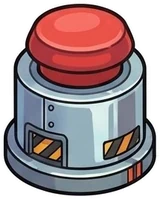
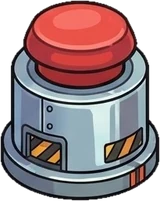
v29: muebles sin borde blanco y con sombra pegada a la base
Claude-Session: https://claude.ai/code/session_015MjFWVPzSuBk34J6ed52Jz

diff --git a/js/nave.js b/js/nave.js
@@ -10,18 +10,46 @@
   var TEX = {};
   function tex(id, src, tileW) {
     var im = new Image(); TEX[id] = { img: im, ok: false, w: tileW };
-    im.onload = function () { TEX[id].ok = true; for (var k in caches) delete caches[k]; };
+    im.onload = function () {
+      if (!tileW) TEX[id].sh = makeShadow(im);   // mueble: preparamos su sombra
+      TEX[id].ok = true; for (var k in caches) delete caches[k];
+    };
     im.src = src;
   }
   tex('cafe', 'img/mapas/nave-comedor-suelo.webp?v=1', 120);   // suelo del Comedor: 4 paneles de 30 de ancho por cada repetición
   // Muebles con imagen: prop(id) carga; drawProp dibuja centrado en x con la base en y y el ancho w
-  function prop(id, file) { tex(id, 'img/mapas/' + file + '?v=1', 0); }
+  // Sombra de un mueble: su misma silueta en negro y difuminada (se tumba en el suelo al dibujarla)
+  function makeShadow(im) {
+    try {
+      var cv = document.createElement('canvas'), pad = 12;
+      cv.width = im.width + pad * 2; cv.height = im.height + pad * 2;
+      var g = cv.getContext('2d');
+      if ('filter' in g) g.filter = 'blur(3px)';
+      g.drawImage(im, pad, pad);
+      g.filter = 'none'; g.globalCompositeOperation = 'source-in'; g.fillStyle = '#000'; g.fillRect(0, 0, cv.width, cv.height);
+      cv.pad = pad;
+      return cv;
+    } catch (e) { return null; }
+  }
+  function prop(id, file) { tex(id, 'img/mapas/' + file + '?v=2', 0); }
   ['mesa', 'maquina', 'boton', 'papelera', 'planta', 'monitor'].forEach(function (n) { prop('cafe-' + n, 'nave-comedor-' + n + '.webp'); });
   function hasProps(list) { for (var i = 0; i < list.length; i++) if (!TEX[list[i]] || !TEX[list[i]].ok) return false; return true; }
   function drawProp(c, id, x, y, w, shadowOn) {
     var T = TEX[id]; if (!T || !T.ok) return false;
     var h = w * T.img.height / T.img.width;
-    if (shadowOn !== false) { c.fillStyle = 'rgba(0,0,0,0.25)'; c.beginPath(); c.ellipse(x, y - 2, w * 0.42, Math.max(4, w * 0.12), 0, 0, Math.PI * 2); c.fill(); }
+    if (shadowOn !== false && T.sh) {
+      // sombra proyectada: pegada a la base y tumbada hacia la derecha y atrás (luz desde la izquierda)
+      var k = w / T.img.width, pad = T.sh.pad * k;
+      c.save(); c.translate(x, y - 1); c.transform(1, 0, -0.75, 0.28, 0, 0); c.globalAlpha = 0.42;
+      c.drawImage(T.sh, -w / 2 - pad, -h - pad, w + pad * 2, h + pad * 2);
+      c.restore();
+      // oscuridad de contacto justo donde el objeto toca el suelo (queda casi toda tapada por el objeto)
+      var cy = y - 3, rx = w * 0.46;
+      var g = c.createRadialGradient(x, cy, 0, x, cy, rx);
+      g.addColorStop(0, 'rgba(0,0,0,0.55)'); g.addColorStop(0.7, 'rgba(0,0,0,0.25)'); g.addColorStop(1, 'rgba(0,0,0,0)');
+      c.save(); c.translate(x, cy); c.scale(1, 0.18); c.translate(-x, -cy);
+      c.fillStyle = g; c.beginPath(); c.arc(x, cy, rx, 0, Math.PI * 2); c.fill(); c.restore();
+    }
     c.drawImage(T.img, x - w / 2, y - h, w, h);
     return true;
   }

diff --git a/movil.html b/movil.html
@@ -6,7 +6,7 @@
 <meta name="viewport" content="width=device-width, initial-scale=1, maximum-scale=1, user-scalable=no, viewport-fit=cover">
 <meta name="theme-color" content="#0b1026">
 <title>Sneak Out · Móvil</title>
-<link rel="stylesheet" href="css/estilo.css?v=28">
+<link rel="stylesheet" href="css/estilo.css?v=29">
 <link rel="manifest" href="manifest.webmanifest">
 <link rel="icon" href="icons/icono2-192.png">
 <link rel="apple-touch-icon" href="icons/icono2-apple-180.png">
@@ -178,25 +178,25 @@
   <canvas class="minimap" id="admCv"></canvas>
 </div>
 
-<script src="vendor/peerjs.min.js?v=28"></script>
-<script src="vendor/trystero.min.js?v=28"></script>
-<script src="js/rebote.js?v=28"></script>
-<script src="js/i18n.js?v=28"></script>
-<script src="js/map.js?v=28"></script>
-<script src="js/game.js?v=28"></script>
-<script src="js/personajes-data.js?v=28"></script>
-<script src="js/fondo.js?v=28"></script>
-<script src="js/efectos.js?v=28"></script>
-<script src="js/disfraces.js?v=28"></script>
-<script src="js/draw.js?v=28"></script>
-<script src="js/nave.js?v=28"></script>
-<script src="js/abisal.js?v=28"></script>
-<script src="js/net.js?v=28"></script>
-<script src="vendor/qrcode.js?v=28"></script>
-<script src="js/servidor.js?v=28"></script>
-<script src="js/ajustes.js?v=28"></script>
-<script src="js/minijuegos.js?v=28"></script>
-<script src="js/movil.js?v=28"></script>
+<script src="vendor/peerjs.min.js?v=29"></script>
+<script src="vendor/trystero.min.js?v=29"></script>
+<script src="js/rebote.js?v=29"></script>
+<script src="js/i18n.js?v=29"></script>
+<script src="js/map.js?v=29"></script>
+<script src="js/game.js?v=29"></script>
+<script src="js/personajes-data.js?v=29"></script>
+<script src="js/fondo.js?v=29"></script>
+<script src="js/efectos.js?v=29"></script>
+<script src="js/disfraces.js?v=29"></script>
+<script src="js/draw.js?v=29"></script>
+<script src="js/nave.js?v=29"></script>
+<script src="js/abisal.js?v=29"></script>
+<script src="js/net.js?v=29"></script>
+<script src="vendor/qrcode.js?v=29"></script>
+<script src="js/servidor.js?v=29"></script>
+<script src="js/ajustes.js?v=29"></script>
+<script src="js/minijuegos.js?v=29"></script>
+<script src="js/movil.js?v=29"></script>
 <script>if ('serviceWorker' in navigator) { try { navigator.serviceWorker.register('sw.js'); } catch (e) {} }</script>
 </body>
 </html>

diff --git a/tele.html b/tele.html
@@ -5,7 +5,7 @@
 <meta name="robots" content="noindex, nofollow, noarchive">
 <meta name="viewport" content="width=device-width, initial-scale=1">
 <title>Sneak Out · Tele</title>
-<link rel="stylesheet" href="css/estilo.css?v=28">
+<link rel="stylesheet" href="css/estilo.css?v=29">
 <link rel="manifest" href="manifest.webmanifest">
 <link rel="icon" href="icons/icono2-192.png">
 <link rel="apple-touch-icon" href="icons/icono2-apple-180.png">
@@ -101,24 +101,24 @@
 
 <div class="lost hidden" id="lost"><span data-i18n="tv.lostTitle"></span> · <span data-i18n="tv.lostText"></span></div>
 
-<script src="vendor/peerjs.min.js?v=28"></script>
-<script src="vendor/trystero.min.js?v=28"></script>
-<script src="js/rebote.js?v=28"></script>
-<script src="vendor/qrcode.js?v=28"></script>
-<script src="js/i18n.js?v=28"></script>
-<script src="js/map.js?v=28"></script>
-<script src="js/game.js?v=28"></script>
-<script src="js/personajes-data.js?v=28"></script>
-<script src="js/fondo.js?v=28"></script>
-<script src="js/efectos.js?v=28"></script>
-<script src="js/disfraces.js?v=28"></script>
-<script src="js/draw.js?v=28"></script>
-<script src="js/nave.js?v=28"></script>
-<script src="js/abisal.js?v=28"></script>
-<script src="js/net.js?v=28"></script>
-<script src="js/servidor.js?v=28"></script>
-<script src="js/ajustes.js?v=28"></script>
-<script src="js/tele.js?v=28"></script>
+<script src="vendor/peerjs.min.js?v=29"></script>
+<script src="vendor/trystero.min.js?v=29"></script>
+<script src="js/rebote.js?v=29"></script>
+<script src="vendor/qrcode.js?v=29"></script>
+<script src="js/i18n.js?v=29"></script>
+<script src="js/map.js?v=29"></script>
+<script src="js/game.js?v=29"></script>
+<script src="js/personajes-data.js?v=29"></script>
+<script src="js/fondo.js?v=29"></script>
+<script src="js/efectos.js?v=29"></script>
+<script src="js/disfraces.js?v=29"></script>
+<script src="js/draw.js?v=29"></script>
+<script src="js/nave.js?v=29"></script>
+<script src="js/abisal.js?v=29"></script>
+<script src="js/net.js?v=29"></script>
+<script src="js/servidor.js?v=29"></script>
+<script src="js/ajustes.js?v=29"></script>
+<script src="js/tele.js?v=29"></script>
 <script>if ('serviceWorker' in navigator) { try { navigator.serviceWorker.register('sw.js'); } catch (e) {} }</script>
 </body>
 </html>

diff --git a/index.html b/index.html
@@ -5,7 +5,7 @@
 <meta name="robots" content="noindex, nofollow, noarchive">
 <meta name="viewport" content="width=device-width, initial-scale=1">
 <title>Sneak Out</title>
-<link rel="stylesheet" href="css/estilo.css?v=28">
+<link rel="stylesheet" href="css/estilo.css?v=29">
 <link rel="manifest" href="manifest.webmanifest">
 <link rel="icon" href="icons/icono2-192.png">
 <link rel="apple-touch-icon" href="icons/icono2-apple-180.png">
@@ -36,11 +36,11 @@
   </div>
   <div class="muted small hidden" id="installHelp" data-i18n="app.installHelp" style="max-width:420px"></div>
   <div class="muted small hidden" id="shareMsg" style="max-width:420px"></div>
-  <div class="ver">v28</div>
+  <div class="ver">v29</div>
 </div>
-<script src="js/personajes-data.js?v=28"></script>
-<script src="js/fondo.js?v=28"></script>
-<script src="js/i18n.js?v=28"></script>
+<script src="js/personajes-data.js?v=29"></script>
+<script src="js/fondo.js?v=29"></script>
+<script src="js/i18n.js?v=29"></script>
 <script>
   (function () {
     var q = location.search;

diff --git a/sw.js b/sw.js
@@ -1,6 +1,6 @@
 /* Hace que el juego se pueda instalar como app y abrir sin Internet (para jugar solo).
    Siempre intenta primero la versión nueva de Internet; si no hay conexión, usa la guardada. */
-var CACHE = 'nave-familiar'; // v28
+var CACHE = 'nave-familiar'; // v29
 self.addEventListener('install', function () { self.skipWaiting(); });
 self.addEventListener('activate', function (e) { e.waitUntil(self.clients.claim()); });
 self.addEventListener('fetch', function (e) {
